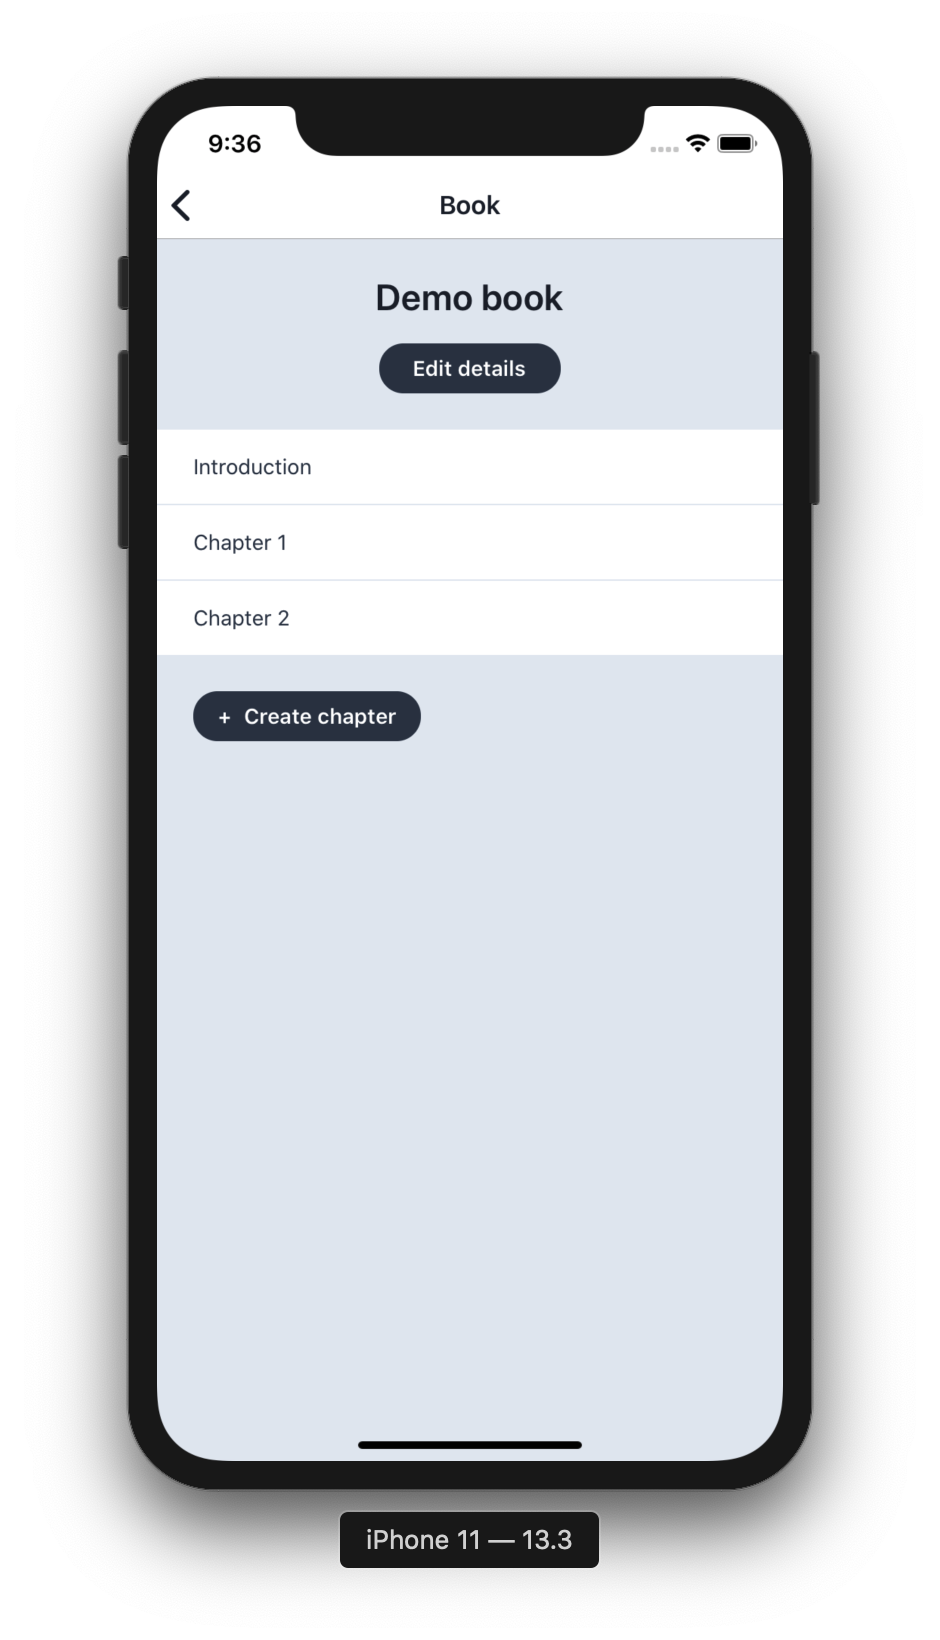
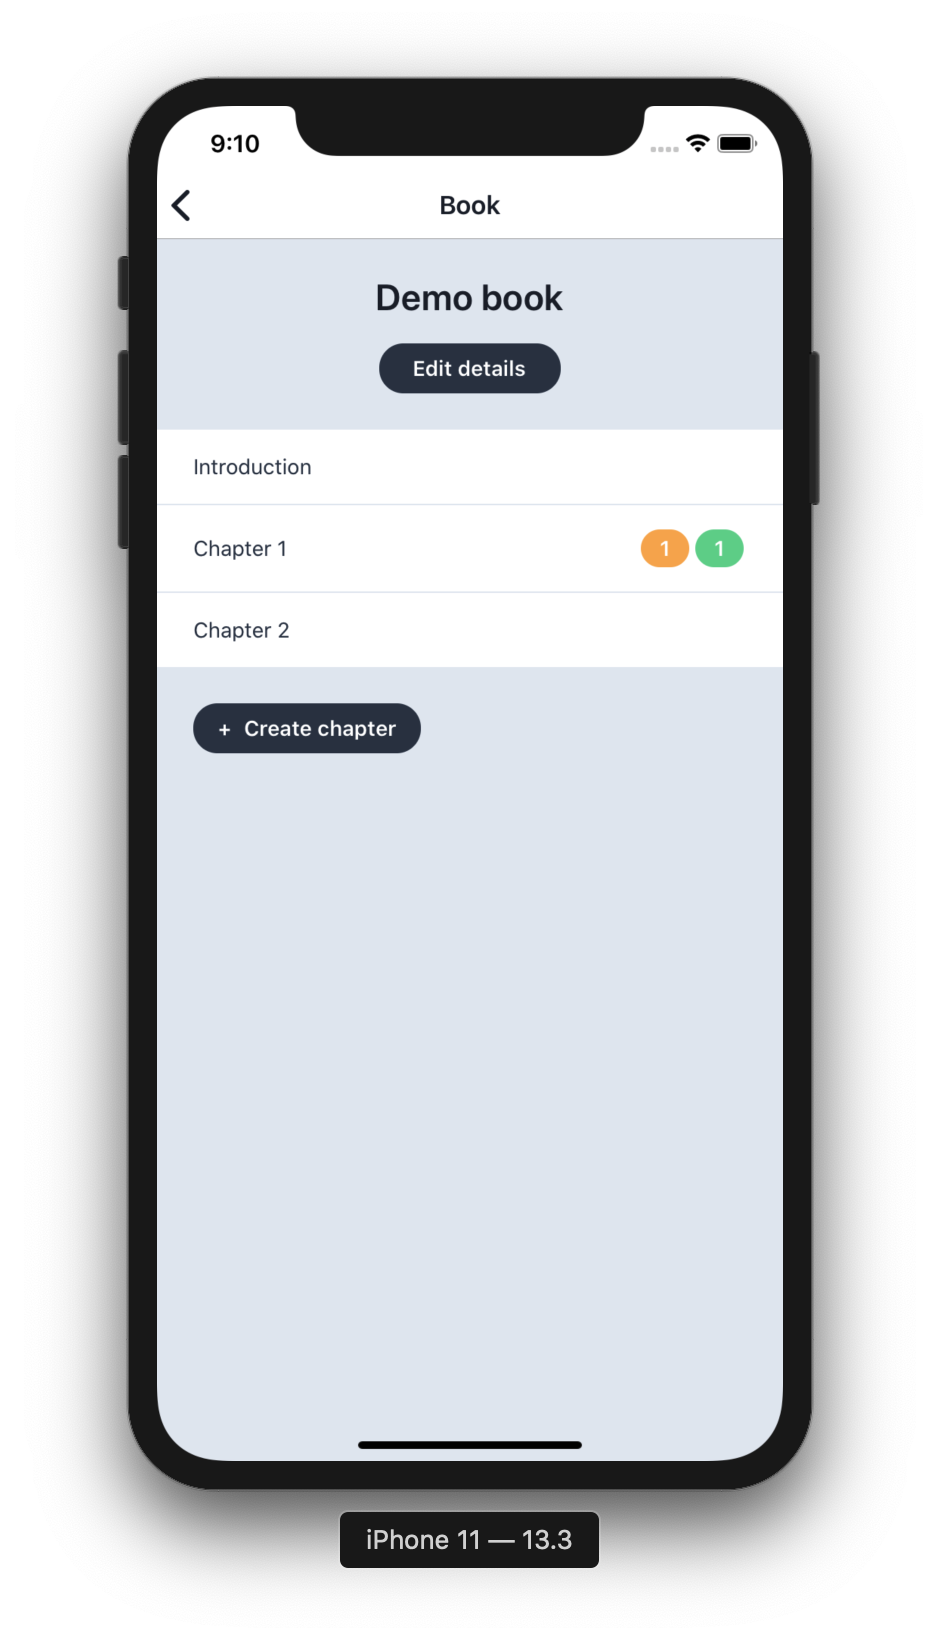
Show scene counters for chapters

Changed region(s): [[0.1851, 0.311, 0.833, 0.4665], [0.216, 0.311, 0.3085, 0.3421], [0.216, 0.0622, 0.2777, 0.0933]]

diff --git a/src/utils/repository.ts b/src/utils/repository.ts
@@ -3,15 +3,29 @@ import { DBTable } from './db/dbTables';
 
 import { IBook, IBookData } from '../types/book.type';
 import { IEntityData } from '../types/entity.type';
-import { IChapter, IChapterData } from '../types/chapter.type';
-import { IChapterItem, IChapterItemData } from '../types/chapterItem.type';
+import {
+  IChapter,
+  IChapterData,
+  IChapterWithCounters,
+} from '../types/chapter.type';
+import {
+  ChapterItemState,
+  IChapterItem,
+  IChapterItemData,
+} from '../types/chapterItem.type';
 
 export const getEntities = async <T>(
   table: DBTable,
+  selectStatement?: string,
   whereStatement?: string,
   params?: any[],
 ): Promise<T[]> => {
-  const entities = await queryAll(table, whereStatement, params);
+  const entities = await queryAll(
+    table,
+    selectStatement,
+    whereStatement,
+    params,
+  );
 
   if (!entities) {
     throw Error('No entities found');
@@ -21,7 +35,7 @@ export const getEntities = async <T>(
 };
 
 export const getEntity = async <T>(table: DBTable, id: number): Promise<T> => {
-  const entities = await queryAll(table, 'id = ? LIMIT 1', [id]);
+  const entities = await queryAll(table, undefined, 'id = ? LIMIT 1', [id]);
 
   if (!entities || entities.length !== 1) {
     throw Error('This entity does not exist');
@@ -64,7 +78,7 @@ export const destroyEntity = async <T>(
   const rowsAffected = await destroy(table, id);
 
   if (!rowsAffected || rowsAffected !== 1) {
-    throw Error('Error while deleting the book');
+    throw Error('Error while deleting the entity');
   }
 };
 
@@ -84,7 +98,32 @@ export const destroyBook = (id: number): Promise<void> =>
   destroyEntity<IBook>(DBTable.book, id);
 
 export const getChapters = (bookId: number): Promise<IChapter[]> =>
-  getEntities<IChapter>(DBTable.chapter, 'bookId = ?', [bookId]);
+  getEntities<IChapter>(DBTable.chapter, undefined, 'bookId = ?', [bookId]);
+
+export const getChaptersWithCounters = (
+  bookId: number,
+): Promise<IChapterWithCounters[]> =>
+  getEntities<IChapterWithCounters>(
+    DBTable.chapter,
+    `(SELECT COUNT(CI.id) FROM ${DBTable.chapterItem} CI WHERE CI.chapterId = ${
+      DBTable.chapter
+    }.id and CI.state = ?) AS countDone, (SELECT COUNT(CI.id) FROM ${
+      DBTable.chapterItem
+    } CI WHERE CI.chapterId = ${
+      DBTable.chapter
+    }.id and CI.state = ?) AS countInProgress, (SELECT COUNT(CI.id) FROM ${
+      DBTable.chapterItem
+    } CI WHERE CI.chapterId = ${
+      DBTable.chapter
+    }.id and CI.state = ?) AS countIdea`,
+    'bookId = ?',
+    [
+      ChapterItemState.done,
+      ChapterItemState.inProgress,
+      ChapterItemState.idea,
+      bookId,
+    ],
+  );
 
 export const getChapter = (id: number): Promise<IChapter> =>
   getEntity<IChapter>(DBTable.chapter, id);
@@ -101,7 +140,9 @@ export const destroyChapter = (id: number): Promise<void> =>
   destroyEntity<IChapter>(DBTable.chapter, id);
 
 export const getChapterItems = (chapterId: number): Promise<IChapterItem[]> =>
-  getEntities<IChapterItem>(DBTable.chapterItem, 'chapterId = ?', [chapterId]);
+  getEntities<IChapterItem>(DBTable.chapterItem, undefined, 'chapterId = ?', [
+    chapterId,
+  ]);
 
 export const getChapterItem = (id: number): Promise<IChapterItem> =>
   getEntity<IChapterItem>(DBTable.chapterItem, id);

diff --git a/src/reducers/chaptersSlice.ts b/src/reducers/chaptersSlice.ts
@@ -1,9 +1,9 @@
 import { createSlice, PayloadAction } from '@reduxjs/toolkit';
 
-import { getChapters } from '../utils/repository';
+import { getChaptersWithCounters } from '../utils/repository';
 import { LoadingStatus } from '../utils/redux';
 
-import { IChapter } from '../types/chapter.type';
+import { IChapterWithCounters, IChapter } from '../types/chapter.type';
 import { ChaptersState, ThunkDispatch, ThunkResult } from '../types/redux.type';
 
 const initialState: ChaptersState = {
@@ -18,11 +18,17 @@ const chaptersSlice = createSlice({
     loadingStatusChanged(state, action: PayloadAction<LoadingStatus>) {
       state.loadingStatus = action.payload;
     },
-    loaded(state, action: PayloadAction<IChapter[]>) {
+    loaded(state, action: PayloadAction<IChapterWithCounters[]>) {
       state.list = action.payload;
     },
     created(state, action: PayloadAction<IChapter>) {
-      state.list.push(action.payload);
+      const newChapterWithCounters: IChapterWithCounters = {
+        ...action.payload,
+        countDone: 0,
+        countIdea: 0,
+        countInProgress: 0,
+      };
+      state.list.push(newChapterWithCounters);
     },
     edited(state, action: PayloadAction<IChapter>) {
       const editedChapter = action.payload;
@@ -30,7 +36,11 @@ const chaptersSlice = createSlice({
         c => c.id === editedChapter.id,
       );
       if (prevChapterIndex >= 0) {
-        state.list[prevChapterIndex] = editedChapter;
+        const editedChapterWithCounters: IChapterWithCounters = {
+          ...state.list[prevChapterIndex],
+          ...editedChapter,
+        };
+        state.list[prevChapterIndex] = editedChapterWithCounters;
       }
     },
     deleted(state, action: PayloadAction<number>) {
@@ -63,7 +73,7 @@ export const fetchChapters = (
     if (loadingStatus !== LoadingStatus.initial) {
       await dispatch(loadingStatusChanged(LoadingStatus.loading));
     }
-    const chapters = await getChapters(bookId);
+    const chapters = await getChaptersWithCounters(bookId);
     await dispatch(loaded(chapters));
     await dispatch(loadingStatusChanged(LoadingStatus.loaded));
   } catch (error) {

diff --git a/src/components/ChapterCard/ChapterCard.tsx b/src/components/ChapterCard/ChapterCard.tsx
@@ -1,33 +1,75 @@
 import React from 'react';
-import { StyleSheet, View, Text } from 'react-native';
+import { StyleSheet, Text, View } from 'react-native';
 
+import Badge from '../Badge/Badge';
 import Touchable from '../Touchable';
 
 import { Palette } from '../../utils/theme';
 
-import { IChapter } from '../../types/chapter.type';
+import { IChapter, IChapterWithCounters } from '../../types/chapter.type';
+import { ChapterItemState } from '../../types/chapterItem.type';
 
 interface IProps {
-  chapter: IChapter;
+  chapter: IChapterWithCounters;
   onPress: (chapter: IChapter) => void;
 }
+
+const STATES = [
+  ChapterItemState.idea,
+  ChapterItemState.inProgress,
+  ChapterItemState.done,
+];
+
+type PropNames = {
+  [ChapterItemState.idea]: 'countIdea';
+  [ChapterItemState.inProgress]: 'countInProgress';
+  [ChapterItemState.done]: 'countDone';
+};
+
+const STATE_TO_COUNT_MAP: PropNames = {
+  [ChapterItemState.idea]: 'countIdea',
+  [ChapterItemState.inProgress]: 'countInProgress',
+  [ChapterItemState.done]: 'countDone',
+};
+
+const STATE_TO_COLOR_MAP = {
+  [ChapterItemState.idea]: Palette.blue.v400,
+  [ChapterItemState.inProgress]: Palette.orange.v400,
+  [ChapterItemState.done]: Palette.green.v400,
+};
 
 const ChapterCard = ({ chapter, onPress }: IProps) => (
   <Touchable onPress={() => onPress(chapter)}>
     <View style={styles.container}>
       <Text style={styles.title}>{chapter.title}</Text>
+      <View style={styles.badges}>
+        {STATES.map(state => (
+          <Badge
+            key={state}
+            counter={chapter[STATE_TO_COUNT_MAP[state]]}
+            backgroundColor={STATE_TO_COLOR_MAP[state]}
+          />
+        ))}
+      </View>
     </View>
   </Touchable>
 );
 
 const styles = StyleSheet.create({
   container: {
+    flexDirection: 'row',
+    justifyContent: 'space-between',
+    alignItems: 'center',
     paddingVertical: 16,
     paddingHorizontal: 24,
     backgroundColor: Palette.white,
   },
   title: {
+    flexShrink: 1,
     color: Palette.gray.v800,
+  },
+  badges: {
+    flexDirection: 'row',
   },
 });
 

diff --git a/src/screens/ChapterScreen.tsx b/src/screens/ChapterScreen.tsx
@@ -1,8 +1,11 @@
-import React from 'react';
+import React, { useEffect } from 'react';
+import { useDispatch } from 'react-redux';
 import { NavigationStackProp } from 'react-navigation-stack';
 
 import Screen from '../components/Screen';
 import ChapterContainer from '../containers/ChapterContainer';
+
+import { fetchChapters } from '../reducers/chaptersSlice';
 
 import { NavigationParamsChapter } from '../types/navigation.type';
 
@@ -10,14 +13,24 @@ interface IProps {
   navigation: NavigationStackProp<NavigationParamsChapter>;
 }
 
-const ChapterScreen = ({ navigation }: IProps) => (
-  <Screen>
-    <ChapterContainer
-      chapterId={navigation.getParam('chapterId')}
-      navigation={navigation}
-    />
-  </Screen>
-);
+const ChapterScreen = ({ navigation }: IProps) => {
+  const dispatch = useDispatch();
+
+  useEffect(() => {
+    return () => {
+      dispatch(fetchChapters(navigation.getParam('chapterBookId')));
+    };
+  }, []); // eslint-disable-line react-hooks/exhaustive-deps
+
+  return (
+    <Screen>
+      <ChapterContainer
+        chapterId={navigation.getParam('chapterId')}
+        navigation={navigation}
+      />
+    </Screen>
+  );
+};
 
 ChapterScreen.navigationOptions = {
   title: 'Chapter',

diff --git a/src/reducers/storageSlice.ts b/src/reducers/storageSlice.ts
@@ -130,6 +130,7 @@ export const closeDatabase = (): ThunkResult<
 
 export const queryAll = async (
   table: string,
+  selectStatement?: string,
   whereStatement?: string,
   params?: any[],
 ): Promise<any[] | undefined> => {
@@ -139,9 +140,9 @@ export const queryAll = async (
     }
 
     const [resultSets] = await dbProvider.executeSql(
-      `SELECT * FROM ${table}${
-        whereStatement ? ` WHERE ${whereStatement}` : ''
-      } `,
+      `SELECT ${table}.* ${
+        selectStatement ? `,${selectStatement}` : ''
+      } FROM ${table}${whereStatement ? ` WHERE ${whereStatement}` : ''} `,
       params,
     );
     return resultSets.rows.raw();

diff --git a/src/types/redux.type.ts b/src/types/redux.type.ts
@@ -4,7 +4,7 @@ import { ThunkAction, ThunkDispatch as TDispatch } from 'redux-thunk';
 import { ConnectingStatus, LoadingStatus } from '../utils/redux';
 
 import { IBook, INullableBook } from './book.type';
-import { IChapter, INullableChapter } from './chapter.type';
+import { IChapterWithCounters, INullableChapter } from './chapter.type';
 import { IChapterItem, INullableChapterItem } from './chapterItem.type';
 
 export type BookState = {
@@ -23,7 +23,7 @@ export type ChapterState = {
 };
 
 export type ChaptersState = {
-  list: IChapter[];
+  list: IChapterWithCounters[];
   loadingStatus: LoadingStatus;
 };
 

diff --git a/src/components/Badge/Badge.tsx b/src/components/Badge/Badge.tsx
@@ -22,6 +22,7 @@ const Badge = ({ counter, backgroundColor }: IProps) => {
 
 const styles = StyleSheet.create({
   badge: {
+    marginHorizontal: 2,
     paddingVertical: 4,
     paddingHorizontal: 8,
     borderRadius: 16,
@@ -30,6 +31,8 @@ const styles = StyleSheet.create({
     fontSize: 14,
     fontWeight: '600',
     color: Palette.white,
+    minWidth: 16,
+    textAlign: 'center',
   },
 });
 

diff --git a/src/types/chapter.type.ts b/src/types/chapter.type.ts
@@ -7,4 +7,10 @@ export interface IChapterData extends IEntityData {
 
 export interface IChapter extends IEntity, IChapterData {}
 
+export interface IChapterWithCounters extends IChapter {
+  countIdea: number;
+  countInProgress: number;
+  countDone: number;
+}
+
 export type INullableChapter = IChapter | null;

diff --git a/src/components/Badge/__tests__/Badge.test.tsx b/src/components/Badge/__tests__/Badge.test.tsx
@@ -12,6 +12,6 @@ describe('<Badge />', () => {
     const instance = renderer.create(
       <Badge counter={1} backgroundColor={Palette.green.v400} />,
     );
-    expect(instance.root.findByType(Text).props.children).toBe('1');
+    expect(instance.root.findByType(Text).props.children).toBe(1);
   });
 });

diff --git a/src/containers/ChaptersContainer.tsx b/src/containers/ChaptersContainer.tsx
@@ -30,6 +30,7 @@ function navigateToViewScreen(
 ) {
   const params: NavigationParamsChapter = {
     chapterId: chapter.id,
+    chapterBookId: chapter.bookId,
   };
 
   navigation.navigate(Screens.Chapter, params);

diff --git a/src/types/navigation.type.ts b/src/types/navigation.type.ts
@@ -16,6 +16,7 @@ export type NavigationParamsBookForm = {
 
 export type NavigationParamsChapter = {
   chapterId: number;
+  chapterBookId: number;
 };
 
 export type NavigationParamsChapterForm = {
